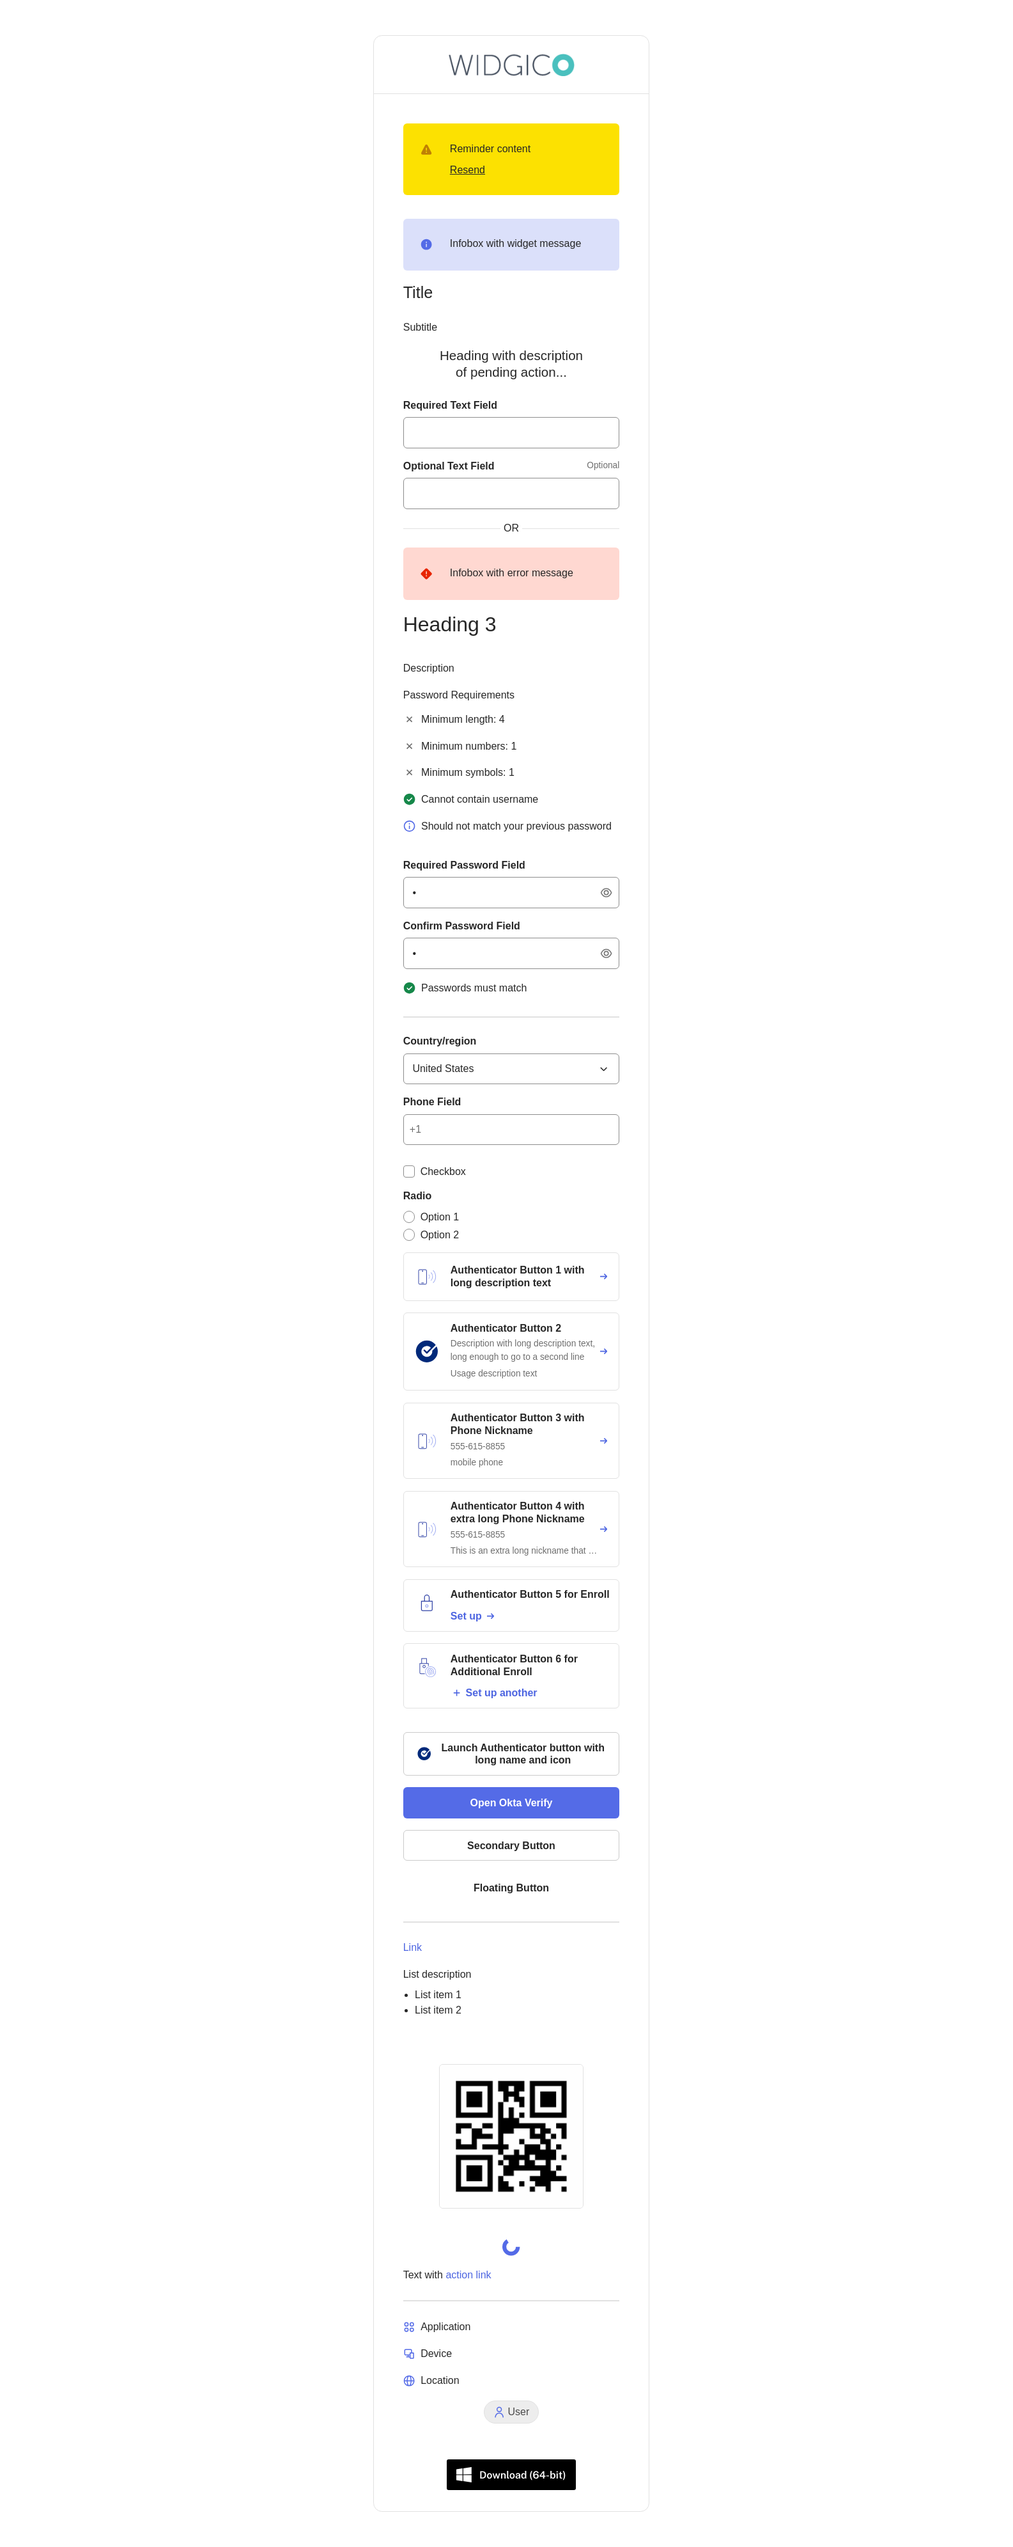
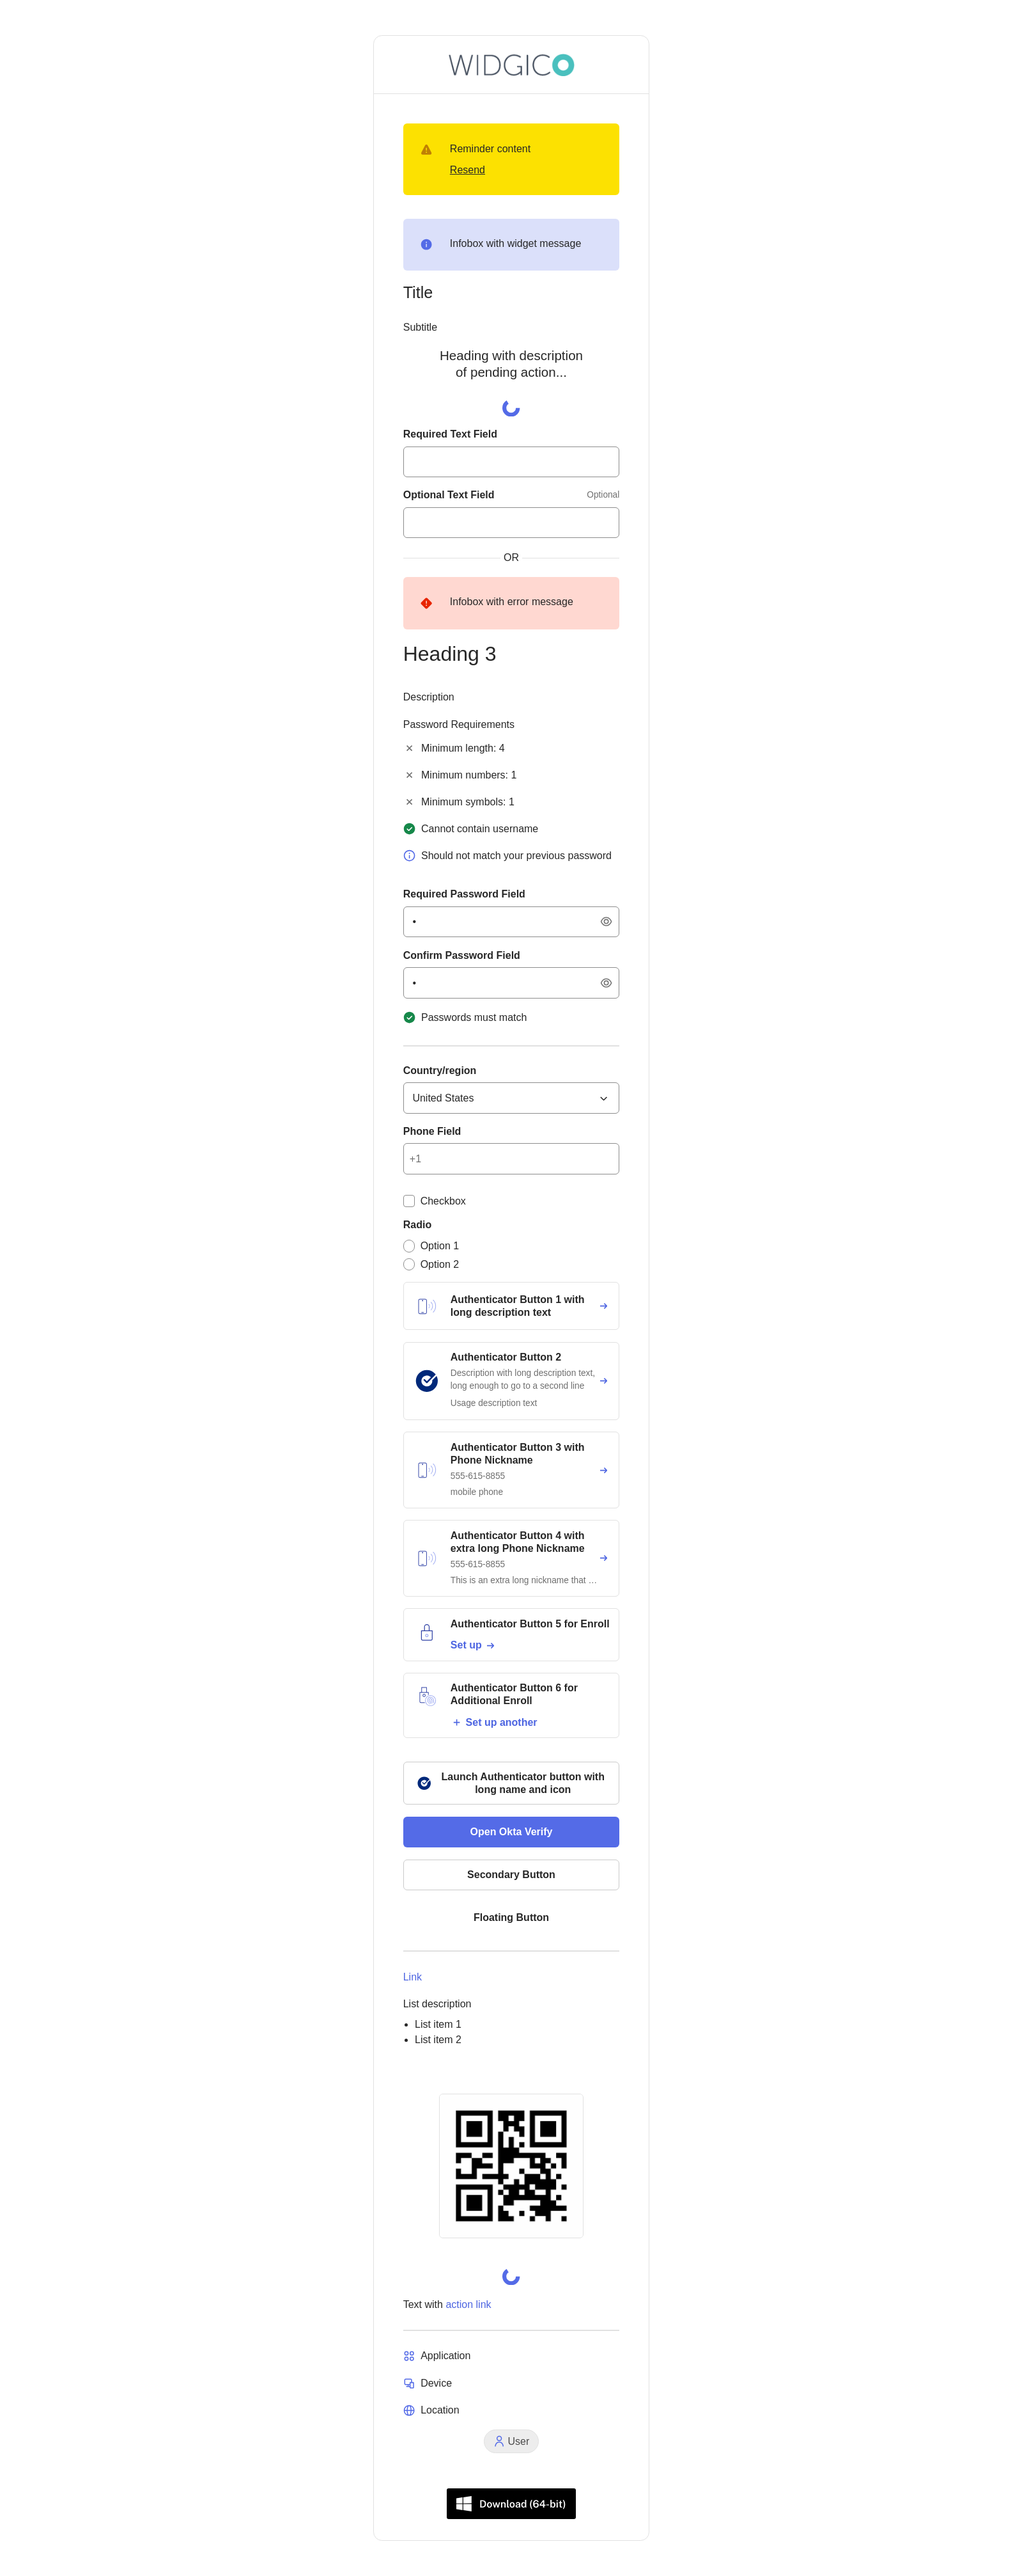
gen3: Add Spinner component inside ActionPending (#3829)
OKTA-874124 [gen3] Add spinner component inside ActionPending

diff --git a/src/v3/src/transformer/layout/oktaVerify/transformOktaVerifyFPLoopbackPoll.test.ts b/src/v3/src/transformer/layout/oktaVerify/transformOktaVerifyFPLoopbackPoll.test.ts
@@ -17,7 +17,6 @@ import {
   ActionPendingElement,
   LinkElement,
   LoopbackProbeElement,
-  SpinnerElement,
   WidgetProps,
 } from '../../../types';
 import * as utils from '../../../util/idxUtils';
@@ -54,15 +53,13 @@ describe('Transform Okta Verify FP Loopback Poll', () => {
       });
 
       expect(updatedFormBag).toMatchSnapshot();
-      expect(updatedFormBag.uischema.elements.length).toBe(5);
+      expect(updatedFormBag.uischema.elements.length).toBe(4);
       expect(updatedFormBag.uischema.elements[0].type).toBe('ActionPending');
       expect((updatedFormBag.uischema.elements[0] as ActionPendingElement).options.content)
         .toBe('deviceTrust.sso.redirectText');
-      expect((updatedFormBag.uischema.elements[1] as SpinnerElement).type)
-        .toBe('Spinner');
-      expect((updatedFormBag.uischema.elements[2] as LoopbackProbeElement).type)
+      expect((updatedFormBag.uischema.elements[1] as LoopbackProbeElement).type)
         .toBe('LoopbackProbe');
-      expect((updatedFormBag.uischema.elements[2] as LoopbackProbeElement).options)
+      expect((updatedFormBag.uischema.elements[1] as LoopbackProbeElement).options)
         .toStrictEqual({
           deviceChallengePayload: {
             ports: ['2000', '6511', '6512', '6513'],
@@ -72,11 +69,11 @@ describe('Transform Okta Verify FP Loopback Poll', () => {
           cancelStep: 'authenticatorChallenge-cancel',
           step: 'device-challenge-poll',
         });
-      expect((updatedFormBag.uischema.elements[3] as LinkElement).options.label)
+      expect((updatedFormBag.uischema.elements[2] as LinkElement).options.label)
         .toBe('oie.verification.switch.authenticator');
-      expect((updatedFormBag.uischema.elements[4] as LinkElement).type)
+      expect((updatedFormBag.uischema.elements[3] as LinkElement).type)
         .toBe('Link');
-      expect((updatedFormBag.uischema.elements[4] as LinkElement).options.step)
+      expect((updatedFormBag.uischema.elements[3] as LinkElement).options.step)
         .toBe('authenticatorChallenge-cancel');
     });
   });
@@ -113,15 +110,13 @@ describe('Transform Okta Verify FP Loopback Poll', () => {
       });
 
       expect(updatedFormBag).toMatchSnapshot();
-      expect(updatedFormBag.uischema.elements.length).toBe(5);
+      expect(updatedFormBag.uischema.elements.length).toBe(4);
       expect(updatedFormBag.uischema.elements[0].type).toBe('ActionPending');
       expect((updatedFormBag.uischema.elements[0] as ActionPendingElement).options.content)
         .toBe('deviceTrust.sso.redirectText');
-      expect((updatedFormBag.uischema.elements[1] as SpinnerElement).type)
-        .toBe('Spinner');
-      expect((updatedFormBag.uischema.elements[2] as LoopbackProbeElement).type)
+      expect((updatedFormBag.uischema.elements[1] as LoopbackProbeElement).type)
         .toBe('LoopbackProbe');
-      expect((updatedFormBag.uischema.elements[2] as LoopbackProbeElement).options)
+      expect((updatedFormBag.uischema.elements[1] as LoopbackProbeElement).options)
         .toStrictEqual({
           deviceChallengePayload: {
             ports: ['2000', '6511', '6512', '6513'],
@@ -131,11 +126,11 @@ describe('Transform Okta Verify FP Loopback Poll', () => {
           cancelStep: 'currentAuthenticator-cancel',
           step: 'challenge-poll',
         });
-      expect((updatedFormBag.uischema.elements[3] as LinkElement).options.label)
+      expect((updatedFormBag.uischema.elements[2] as LinkElement).options.label)
         .toBe('oie.verification.switch.authenticator');
-      expect((updatedFormBag.uischema.elements[4] as LinkElement).type)
+      expect((updatedFormBag.uischema.elements[3] as LinkElement).type)
         .toBe('Link');
-      expect((updatedFormBag.uischema.elements[4] as LinkElement).options.step)
+      expect((updatedFormBag.uischema.elements[3] as LinkElement).options.step)
         .toBe('currentAuthenticator-cancel');
     });
   });

diff --git a/src/v3/src/transformer/redirect/redirectTransformer.test.ts b/src/v3/src/transformer/redirect/redirectTransformer.test.ts
@@ -77,13 +77,12 @@ describe('Success Redirect Transform Tests', () => {
       widgetProps,
     );
 
-    expect(formBag.uischema.elements.length).toBe(3);
+    expect(formBag.uischema.elements.length).toBe(2);
     expect(formBag.uischema.elements[0].type).toBe('ActionPending');
     expect((formBag.uischema.elements[0] as ActionPendingElement).options?.content)
       .toBe('oie.success.text.signingIn.with.appName.and.identifier');
     expect(formBag.uischema.elements[1].type).toBe('Redirect');
     expect((formBag.uischema.elements[1] as RedirectElement).options?.url).toBe(REDIRECT_URL);
-    expect(formBag.uischema.elements[2].type).toBe('Spinner');
   });
 
   it('should add generic description & redirect elements for DEFAULT Interstitial view '
@@ -100,13 +99,12 @@ describe('Success Redirect Transform Tests', () => {
       widgetProps,
     );
 
-    expect(formBag.uischema.elements.length).toBe(3);
+    expect(formBag.uischema.elements.length).toBe(2);
     expect(formBag.uischema.elements[0].type).toBe('ActionPending');
     expect((formBag.uischema.elements[0] as ActionPendingElement).options?.content)
       .toBe('oie.success.text.signingIn');
     expect(formBag.uischema.elements[1].type).toBe('Redirect');
     expect((formBag.uischema.elements[1] as RedirectElement).options?.url).toBe(REDIRECT_URL);
-    expect(formBag.uischema.elements[2].type).toBe('Spinner');
   });
 
   it('should add app name to description element for DEFAULT Interstitial view '
@@ -127,12 +125,11 @@ describe('Success Redirect Transform Tests', () => {
       widgetProps,
     );
 
-    expect(formBag.uischema.elements.length).toBe(3);
+    expect(formBag.uischema.elements.length).toBe(2);
     expect(formBag.uischema.elements[0].type).toBe('ActionPending');
     expect((formBag.uischema.elements[0] as ActionPendingElement).options?.content)
       .toBe('oie.success.text.signingIn.with.appName');
     expect(formBag.uischema.elements[1].type).toBe('Redirect');
     expect((formBag.uischema.elements[1] as RedirectElement).options?.url).toBe(REDIRECT_URL);
-    expect(formBag.uischema.elements[2].type).toBe('Spinner');
   });
 });

diff --git a/src/v3/src/transformer/oktaVerify/transformAppleSsoExtension.test.ts b/src/v3/src/transformer/oktaVerify/transformAppleSsoExtension.test.ts
@@ -19,7 +19,6 @@ import {
   AutoSubmitElement,
   FormBag,
   RedirectElement,
-  SpinnerElement,
   WidgetProps,
 } from '../../types';
 import { transformAppleSsoExtension } from './transformAppleSsoExtension';
@@ -39,12 +38,10 @@ describe('SSO extension Transformer Tests', () => {
     const updatedFormBag = transformAppleSsoExtension({ transaction, formBag, widgetProps });
 
     expect(updatedFormBag).toMatchSnapshot();
-    expect(updatedFormBag.uischema.elements.length).toBe(3);
+    expect(updatedFormBag.uischema.elements.length).toBe(2);
     expect(updatedFormBag.uischema.elements[0].type).toBe('ActionPending');
     expect((updatedFormBag.uischema.elements[0] as ActionPendingElement).options.content)
       .toBe('deviceTrust.sso.redirectText');
-    expect((updatedFormBag.uischema.elements[1] as SpinnerElement).type)
-      .toBe('Spinner');
   });
 
   it('should add Redirect element if step is device-apple-sso-extension and method is GET', () => {
@@ -59,9 +56,9 @@ describe('SSO extension Transformer Tests', () => {
       },
     ];
     const updatedFormBag = transformAppleSsoExtension({ transaction, formBag, widgetProps });
-    expect((updatedFormBag.uischema.elements[2] as RedirectElement).type)
+    expect((updatedFormBag.uischema.elements[1] as RedirectElement).type)
       .toBe('Redirect');
-    expect((updatedFormBag.uischema.elements[2] as RedirectElement).options.url)
+    expect((updatedFormBag.uischema.elements[1] as RedirectElement).options.url)
       .toBe('localhost:3000');
   });
 
@@ -76,9 +73,9 @@ describe('SSO extension Transformer Tests', () => {
       },
     ];
     const updatedFormBag = transformAppleSsoExtension({ transaction, formBag, widgetProps });
-    expect((updatedFormBag.uischema.elements[2] as AutoSubmitElement).type)
+    expect((updatedFormBag.uischema.elements[1] as AutoSubmitElement).type)
       .toBe('AutoSubmit');
-    expect((updatedFormBag.uischema.elements[2] as AutoSubmitElement).options.step)
+    expect((updatedFormBag.uischema.elements[1] as AutoSubmitElement).options.step)
       .toBe(IDX_STEP.DEVICE_APPLE_SSO_EXTENSION);
   });
 });

diff --git a/src/v3/src/components/ActionPending/ActionPending.tsx b/src/v3/src/components/ActionPending/ActionPending.tsx
@@ -11,12 +11,13 @@
  */
 
 import { Box } from '@mui/material';
-import { Typography } from '@okta/odyssey-react-mui';
+import { Typography, useOdysseyDesignTokens } from '@okta/odyssey-react-mui';
 import { h } from 'preact';
 import { useEffect, useRef } from 'preact/hooks';
 
 import { useWidgetContext } from '../../contexts';
 import { ActionPendingElement, UISchemaElementComponent } from '../../types';
+import Spinner from '../Spinner';
 
 /**
  * Render component used to indicate to the user that they should wait for an action to complete.
@@ -27,6 +28,7 @@ const ActionPending: UISchemaElementComponent<{
 }> = (
   { uischema: { options } },
 ) => {
+  const tokens = useOdysseyDesignTokens();
   const titleRef = useRef<HTMLTitleElement>(null);
   const { widgetProps } = useWidgetContext();
   const { features: { autoFocus = false } = {} } = widgetProps;
@@ -40,21 +42,28 @@ const ActionPending: UISchemaElementComponent<{
 
   return (
     <Box
-      textAlign="center"
-      testId={options.dataSe}
-      sx={{
-        overflowWrap: 'break-word',
-        textWrap: 'balance',
-      }}
+      display="flex"
+      flexDirection="column"
     >
-      <Typography
-        component="h2"
-        variant="h5"
-        testId="o-form-head"
-        typographyRef={titleRef}
+      <Box
+        textAlign="center"
+        testId={options.dataSe}
+        sx={{
+          overflowWrap: 'break-word',
+          textWrap: 'balance',
+          marginBlockEnd: tokens.Spacing4,
+        }}
       >
-        {options.content}
-      </Typography>
+        <Typography
+          component="h2"
+          variant="h5"
+          testId="o-form-head"
+          typographyRef={titleRef}
+        >
+          {options.content}
+        </Typography>
+      </Box>
+      <Spinner />
     </Box>
   );
 };

diff --git a/src/v3/src/transformer/layout/oktaVerify/transformOktaVerifyDeviceChallengePoll.test.ts b/src/v3/src/transformer/layout/oktaVerify/transformOktaVerifyDeviceChallengePoll.test.ts
@@ -163,17 +163,15 @@ describe('Transform Okta Verify Device Challenge Poll Tests', () => {
       });
 
       expect(updatedFormBag).toMatchSnapshot();
-      expect(updatedFormBag.uischema.elements.length).toBe(4);
+      expect(updatedFormBag.uischema.elements.length).toBe(3);
       expect(updatedFormBag.uischema.elements[0].type).toBe('ActionPending');
       expect((updatedFormBag.uischema.elements[0] as ActionPendingElement).options.content)
         .toBe('deviceTrust.sso.redirectText');
-      expect((updatedFormBag.uischema.elements[1] as SpinnerElement).type)
-        .toBe('Spinner');
-      expect((updatedFormBag.uischema.elements[2] as ChromeDtcContainerElement).options.href)
+      expect((updatedFormBag.uischema.elements[1] as ChromeDtcContainerElement).options.href)
         .toBe('okta-verify.html');
-      expect((updatedFormBag.uischema.elements[3] as LinkElement).type)
+      expect((updatedFormBag.uischema.elements[2] as LinkElement).type)
         .toBe('Link');
-      expect((updatedFormBag.uischema.elements[3] as LinkElement).options.step)
+      expect((updatedFormBag.uischema.elements[2] as LinkElement).options.step)
         .toBe('cancel');
     });
   });

diff --git a/src/v3/src/transformer/oktaVerify/transformAppleSsoExtension.ts b/src/v3/src/transformer/oktaVerify/transformAppleSsoExtension.ts
@@ -18,7 +18,6 @@ import {
   AutoSubmitElement,
   IdxStepTransformer,
   RedirectElement,
-  SpinnerElement,
 } from '../../types';
 import { loc } from '../../util';
 
@@ -34,20 +33,15 @@ export const transformAppleSsoExtension: IdxStepTransformer = ({ formBag, transa
     return formBag;
   }
 
-  const titleElement: ActionPendingElement = {
+  const actionPendingElement: ActionPendingElement = {
     type: 'ActionPending',
     options: {
       content: loc('deviceTrust.sso.redirectText', 'login'),
     },
   };
 
-  const spinnerElement = {
-    type: 'Spinner',
-  } as SpinnerElement;
-
   uischema.elements = [
-    titleElement,
-    spinnerElement,
+    actionPendingElement,
   ];
 
   const autoSubmitElement: AutoSubmitElement = {

diff --git a/src/v3/src/transformer/layout/oktaVerify/transformOktaVerifyFPLoopbackPoll.ts b/src/v3/src/transformer/layout/oktaVerify/transformOktaVerifyFPLoopbackPoll.ts
@@ -17,7 +17,6 @@ import {
   IWidgetContext,
   LinkElement,
   LoopbackProbeElement,
-  SpinnerElement,
 } from '../../../types';
 import { hasMinAuthenticatorOptions, loc, updateTransactionWithNextStep } from '../../../util';
 
@@ -31,10 +30,6 @@ export const transformOktaVerifyFPLoopbackPoll: IdxStepTransformer = ({
     type: 'ActionPending',
     options: { content: loc('deviceTrust.sso.redirectText', 'login') },
   } as ActionPendingElement);
-
-  uischema.elements.push({
-    type: 'Spinner',
-  } as SpinnerElement);
 
   const cancelStep = transaction.nextStep?.name === IDX_STEP.DEVICE_CHALLENGE_POLL
     ? 'authenticatorChallenge-cancel' : 'currentAuthenticator-cancel';

diff --git a/src/v3/src/transformer/redirect/redirectTransformer.ts b/src/v3/src/transformer/redirect/redirectTransformer.ts
@@ -17,7 +17,6 @@ import {
   ActionPendingElement,
   FormBag,
   RedirectElement,
-  SpinnerElement,
   WidgetProps,
 } from '../../types';
 import { getAppInfo, getUserInfo, loc } from '../../util';
@@ -40,12 +39,6 @@ export const redirectTransformer = (
 
   const appInfo = getAppInfo(transaction);
   const userInfo = getUserInfo(transaction);
-
-  if (interstitialBeforeLoginRedirect === InterstitialRedirectView.DEFAULT) {
-    uischema.elements.push({
-      type: 'Spinner',
-    } as SpinnerElement);
-  }
 
   if (!interstitialBeforeLoginRedirect
     || interstitialBeforeLoginRedirect === InterstitialRedirectView.NONE) {

diff --git a/src/v3/src/transformer/layout/oktaVerify/transformOktaVerifyDeviceChallengePoll.ts b/src/v3/src/transformer/layout/oktaVerify/transformOktaVerifyDeviceChallengePoll.ts
@@ -223,7 +223,6 @@ export const transformOktaVerifyDeviceChallengePoll: IdxStepTransformer = ({
 
   if ([
     CHALLENGE_METHOD.APP_LINK,
-    CHALLENGE_METHOD.CHROME_DTC,
     CHALLENGE_METHOD.UNIVERSAL_LINK,
   ].includes(challengeMethod)) {
     uischema.elements.push(spinnerElement);
